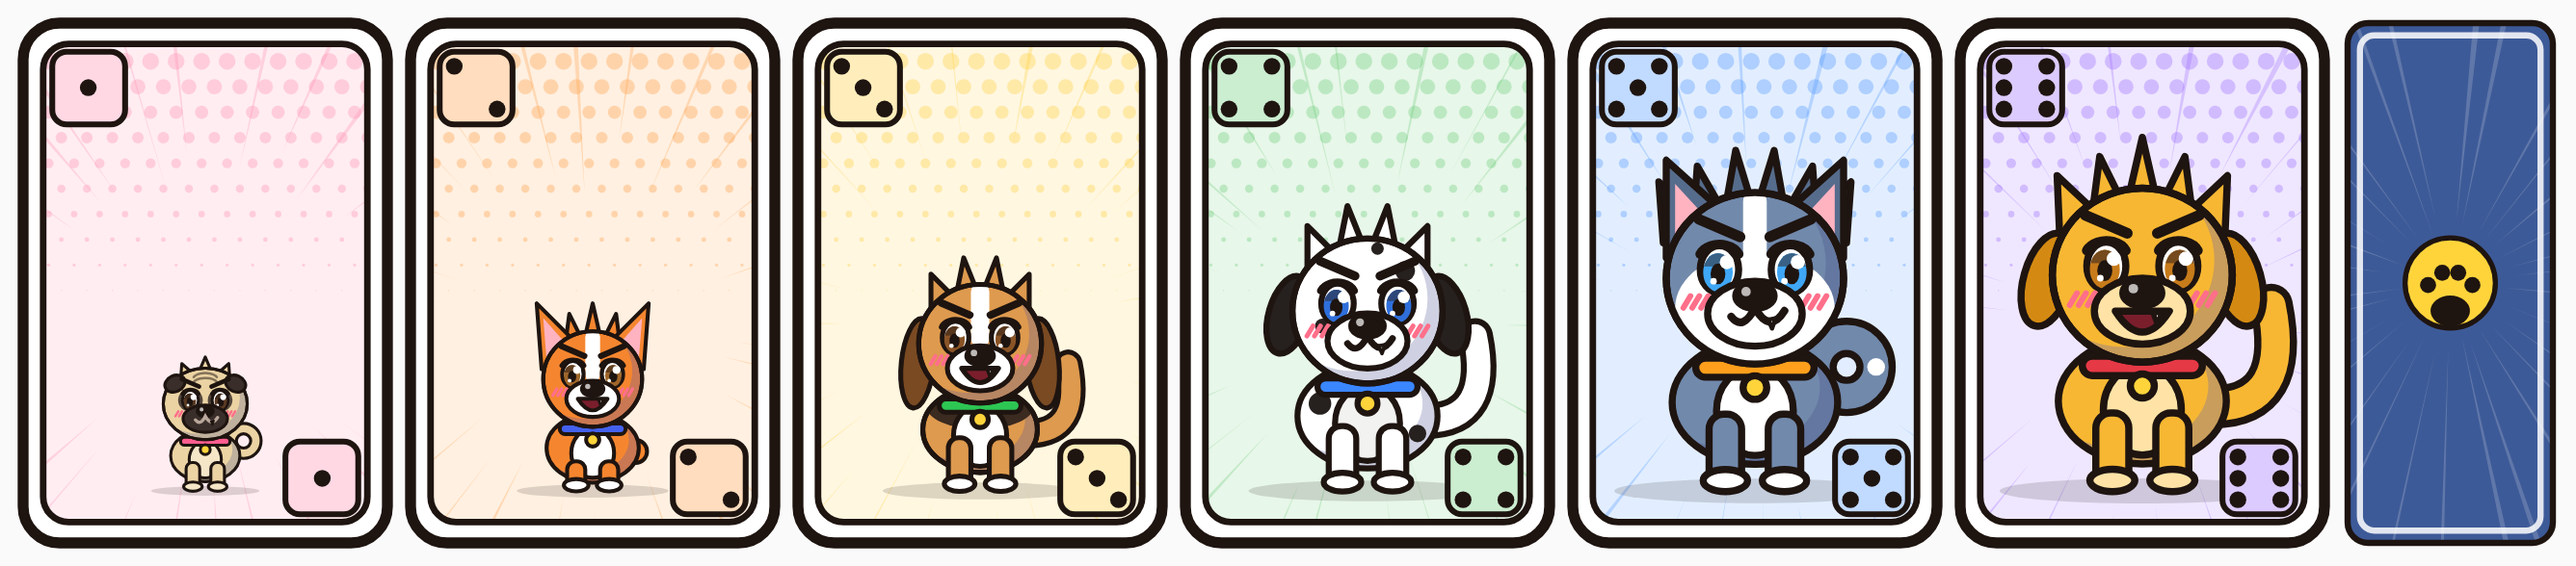
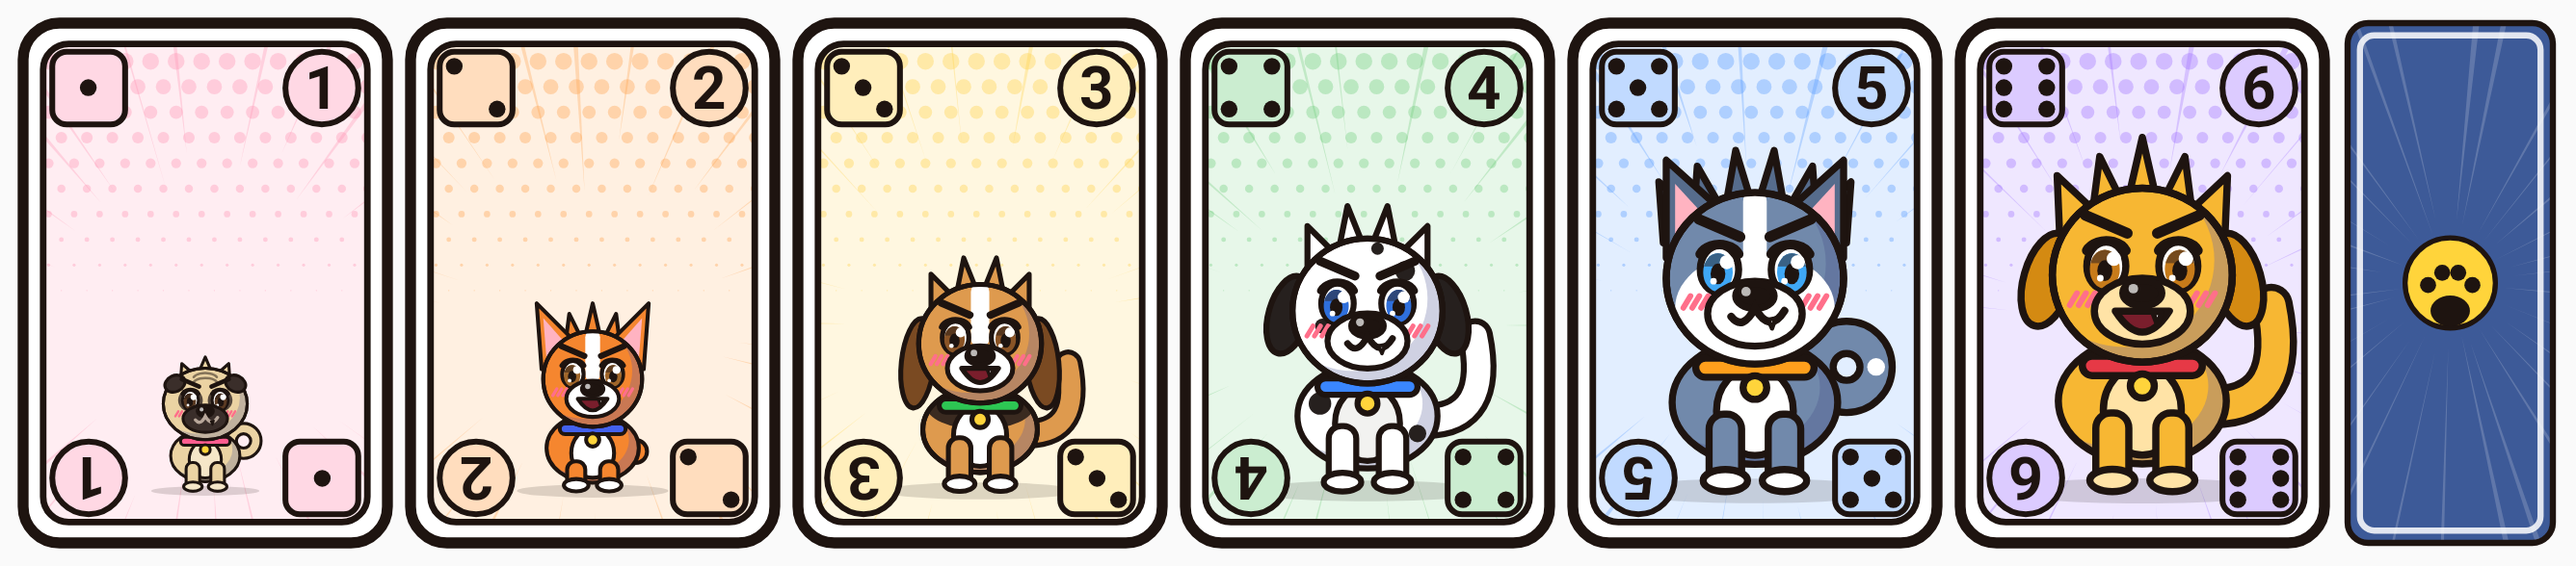
Show the card number in the corners opposite the dice
- Each card shows its value as a bold inked number in a round badge in the
  top-right corner and, upside down, in the bottom-left, opposite the dice
- Refreshed README and Play Store screenshots that show cards

diff --git a/app/src/main/java/com/woofbattle/app/ui/DogArt.kt b/app/src/main/java/com/woofbattle/app/ui/DogArt.kt
@@ -11,6 +11,7 @@ import androidx.compose.ui.graphics.drawscope.DrawScope
 import androidx.compose.ui.graphics.drawscope.Stroke
 import androidx.compose.ui.graphics.drawscope.clipPath
 import androidx.compose.ui.graphics.drawscope.rotate
+import androidx.compose.ui.graphics.nativeCanvas
 
 val ValueAccents = listOf(
     Color(0xFFFF8FB1), Color(0xFFFF9F45), Color(0xFFFFCF3D),
@@ -42,9 +43,31 @@ fun DrawScope.drawCardFace(value: Int) {
     drawOval(Ink.copy(alpha = 0.15f), topLeft = Offset(w * 0.5f - dogSize * 0.4f, groundY - dogSize * 0.035f), size = Size(dogSize * 0.8f, dogSize * 0.07f))
     drawBreed(CardBreeds[value - 1], w * 0.5f, groundY, dogSize)
 
+    // Dice in two opposite corners, the card's number in the other two (also upside down, so the
+    // card reads the same from both sides of the table).
     val box = w * 0.2f
+    val numberCenter = Offset(w - w * 0.08f - box / 2, h * 0.055f + box / 2)
     drawPips(value, Offset(w * 0.08f, h * 0.055f), box, accent)
-    rotate(180f) { drawPips(value, Offset(w * 0.08f, h * 0.055f), box, accent) }
+    drawCornerNumber(value, numberCenter, box, accent)
+    rotate(180f) {
+        drawPips(value, Offset(w * 0.08f, h * 0.055f), box, accent)
+        drawCornerNumber(value, numberCenter, box, accent)
+    }
+}
+
+/** The card's value as a bold inked number in a round badge, [box] wide, centred on [c]. */
+private fun DrawScope.drawCornerNumber(value: Int, c: Offset, box: Float, accent: Color) {
+    val r = box / 2
+    drawCircle(Color.White, r, c)
+    drawCircle(accent.copy(alpha = 0.35f), r, c)
+    drawCircle(Ink, r, c, style = Stroke(box * 0.08f))
+    val paint = android.graphics.Paint(android.graphics.Paint.ANTI_ALIAS_FLAG).apply {
+        textSize = box * 0.82f
+        typeface = android.graphics.Typeface.create(android.graphics.Typeface.DEFAULT, android.graphics.Typeface.BOLD)
+        textAlign = android.graphics.Paint.Align.CENTER
+    }
+    val baseline = c.y - (paint.descent() + paint.ascent()) / 2
+    drawContext.canvas.nativeCanvas.drawText(value.toString(), c.x, baseline, paint.apply { color = android.graphics.Color.rgb(0x1E, 0x14, 0x10) })
 }
 
 private val PipLayout = mapOf(
